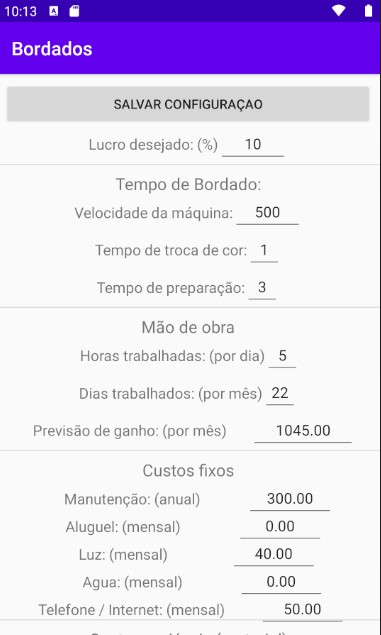
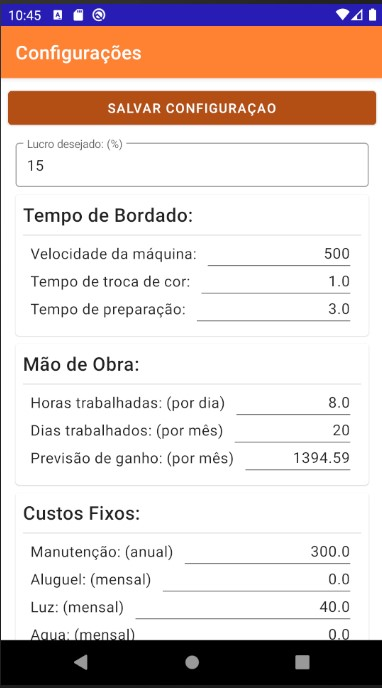
Atualizando documentação

diff --git a/README.md b/README.md
@@ -64,6 +64,8 @@ Campos de entrada:
 
 > Em definição
 
+![Tela de bastidores](Bastidores.jpg)
+
 ## Tecnologias
 
 - Android:
@@ -95,16 +97,16 @@ Ferramentas:
 - [X] ~~Configurar inserção/edição/deleção de bastidores;~~
 - [X] ~~Refatoração do código;~~
 - [X] ~~Ajustar cálculo da mão de obra com os custos da legislação vigente (INSS, férias, 13º) (Validar); [ddauriol](https://www.twitch.tv/ddauriol)~~
-- [X] Configurar o callback na database;
+- [X] ~~Configurar o callback na database~~;
 
 ----
 
 - [ ] Aplicar Material Design nos layouts;
-  - [X] Tela Inicial;
-  - [ ] Tela de configuração;
+  - [X] ~~Tela Inicial~~;
+  - [X] ~~Tela de configuração~~;
   - [ ] Tela de bastidores;
   - [ ] Caixas de diálogo;
-- [ ] Separar grupos de configuração com CardView;
+- [X] ~~Separar grupos de configuração com CardView~~;
 - [ ] Verificar possibilidade de usar expandable cardview;
 
 ----
